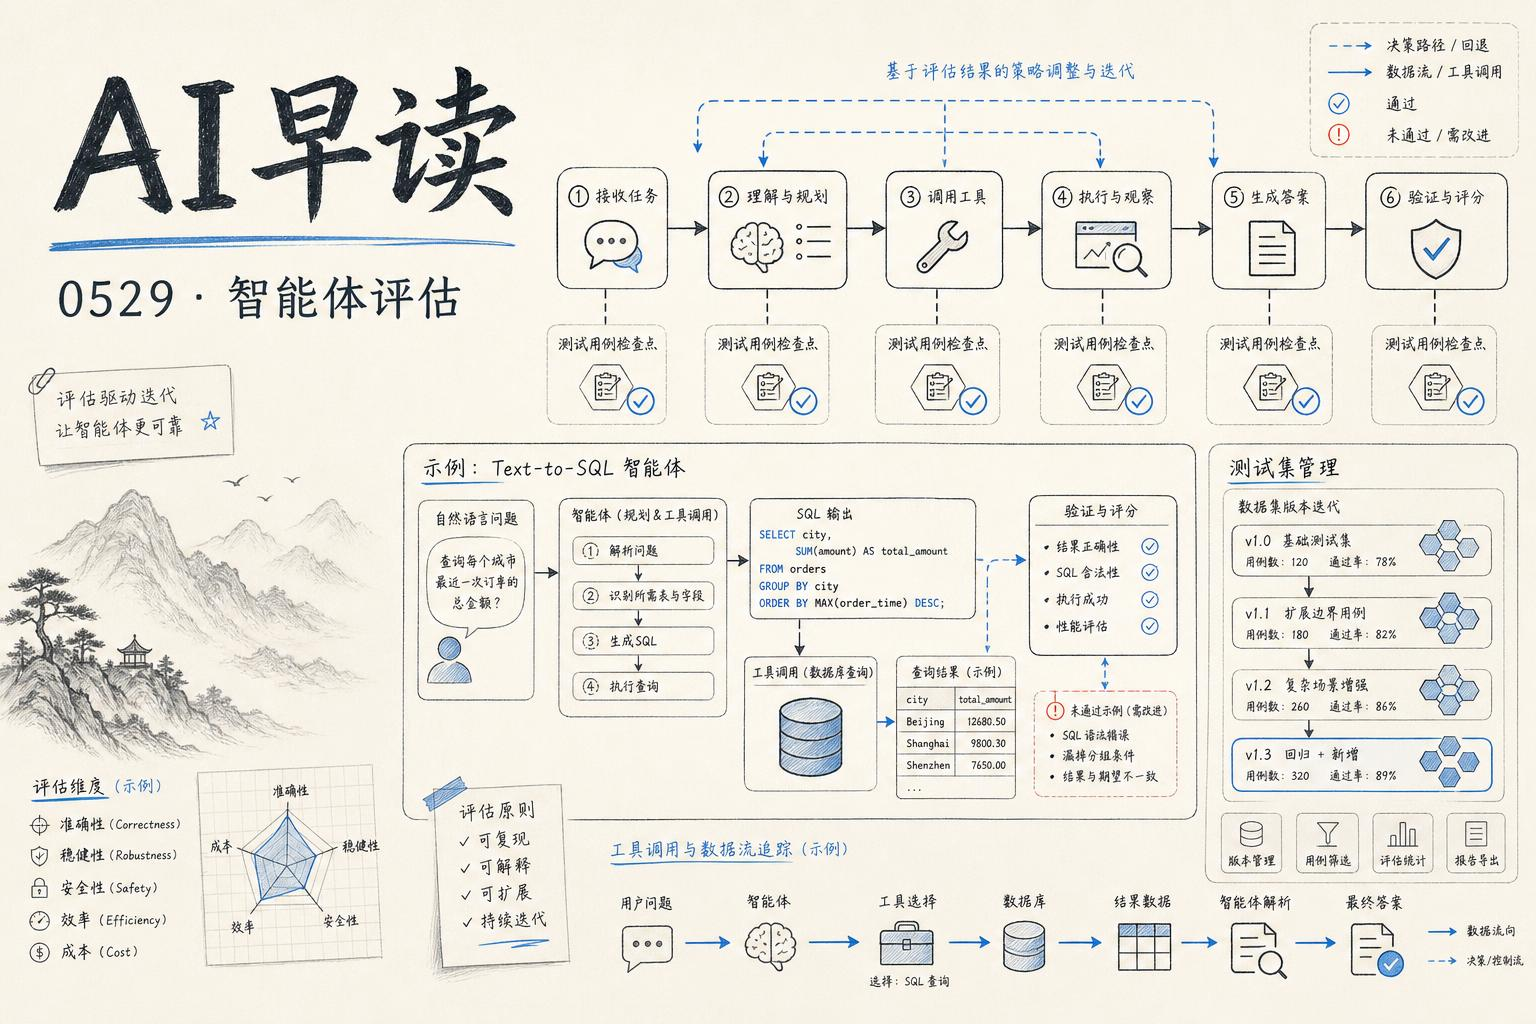
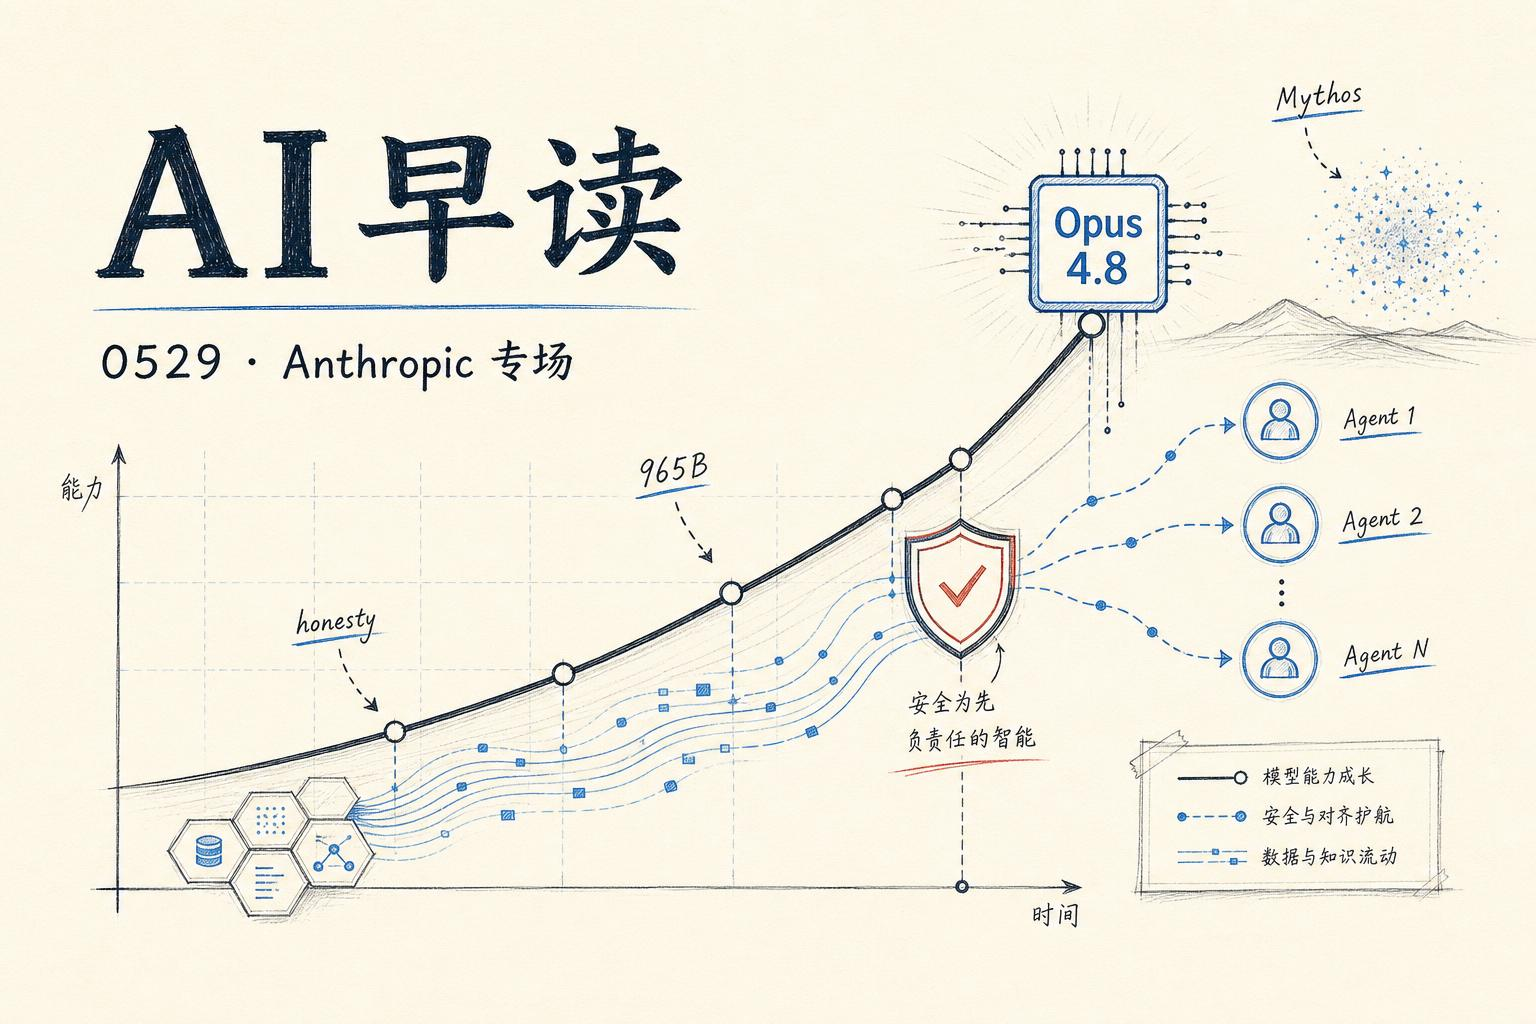
chore: add Anthropic 专场 cover image

Changed region(s): [[0.0, 0.0312, 1.0, 0.9688], [0.5625, 0.0625, 0.75, 0.0938], [0.4688, 0.3125, 0.5312, 0.4062]]

diff --git a/images/prompts/cover.md b/images/prompts/cover.md
@@ -1,0 +1,24 @@
+Cover theme: Anthropic 专场
+Style: hand-drawn editorial ink
+Composition: hero-center
+
+Title text: AI早读
+Subtitle text: 0529 · Anthropic 专场
+
+Visual composition:
+- Main visual: a large hand-drawn upward-trending graph spanning center and right side, with a stylized model architecture diagram showing a glowing "Opus 4.8" chip/node at the peak. A safety shield icon intersects the growth line, with small agent-node circles branching off in parallel (symbolizing Dynamic Workflows subagents). A subtle cluster of small dots in the upper right represents the Mythos model on the horizon.
+- Layout: title text "AI早读" large and readable in the upper-left corner, subtitle "0529 · Anthropic 专场" smaller directly below it; illustration occupies remainder of canvas with generous negative space.
+- Decorative elements: small pencil-sketch annotations near the growth line ("honesty", "965B", "Mythos"), node dots connected by dashed arrows, data-flow traces along the growth curve, a few small hexagonal data tiles.
+
+Color scheme:
+- Background: warm off-white paper (#F7F3EA)
+- Primary ink: deep charcoal / navy-black
+- Accent: restrained Anthem Blue (#4A90D9) used for model/agent nodes and data paths. Signal red used very sparingly for safety-shield accents.
+- Secondary: muted graphite and pale steel blue for grid lines and shadow lines.
+
+Style notes:
+- Premium Chinese tech newsletter cover.
+- Hand-drawn but precise, like a research notebook meets systems architecture sketch.
+- Keep the image uncluttered and readable at thumbnail size.
+- Make all visible text crisp, legible, and exactly as specified: "AI早读" and "0529 · Anthropic 专场".
+- No logos, no photorealistic people, no generic robot face, no dark gradient background, no glowing neon effects.
